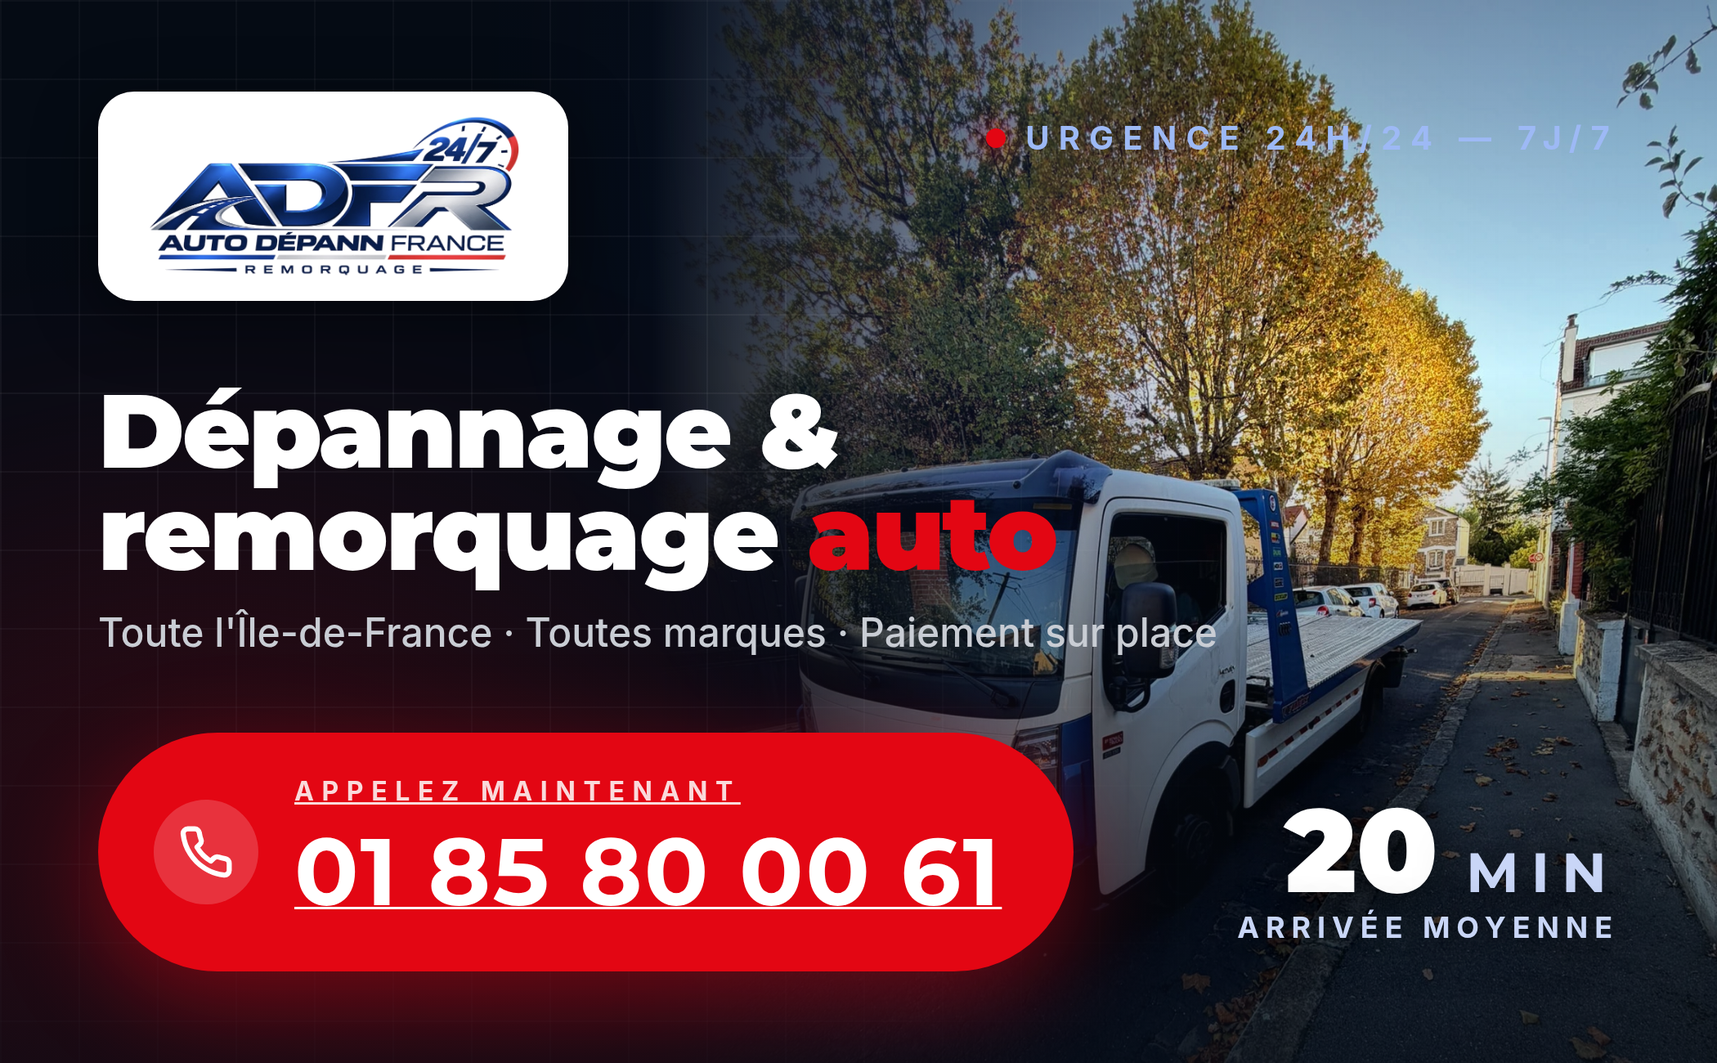
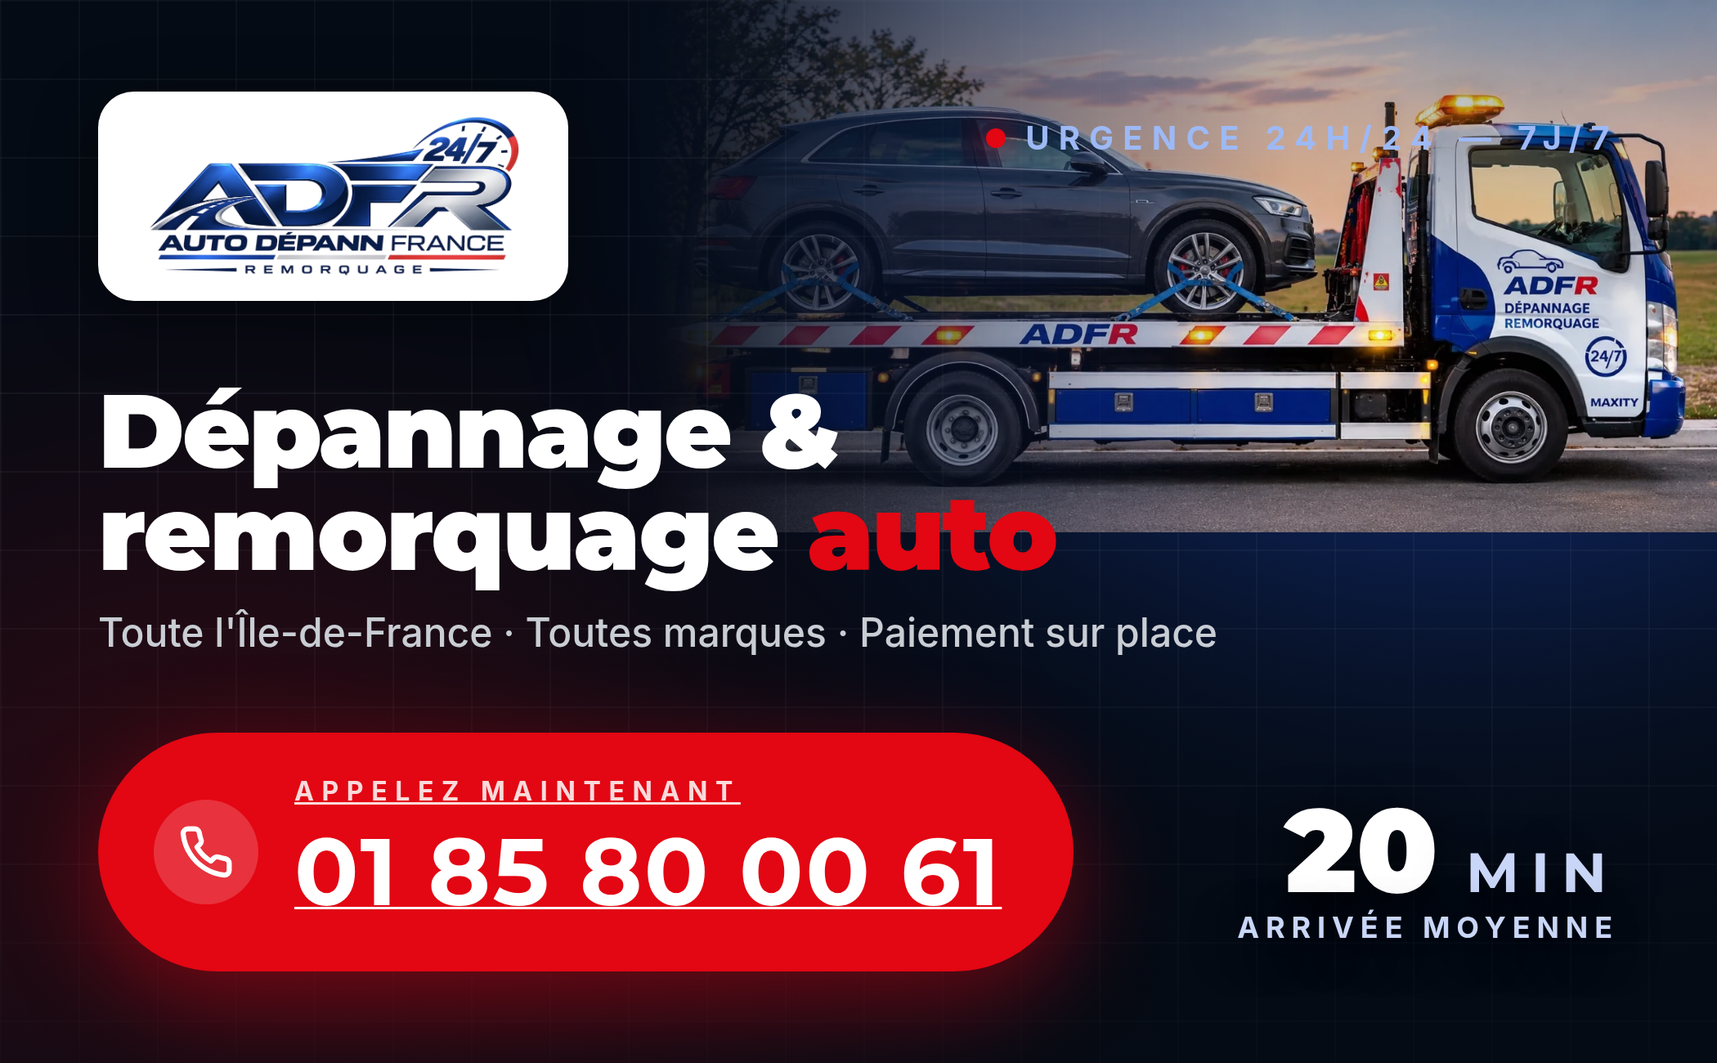
Fait, les deux points sont visibles dans les captures ci-dessus :
**1. Carte « Crevaison »** : ta nouvelle photo (BMW crevée sur le plateau ADFR) est intégrée, convertie en WebP (180 Ko), coins arrondis + ombre, chargement différé, alt « Remorquage d'une voiture crevée sur dépanneuse plateau ADFR ».

**2. Photo du hero sur mobile** : recadrée à droite → la cabine complète avec le logo ADFR, « Dépannage Remorquage », le 24/7 et le « MAXITY » sont visibles, le titre vient juste en dessous. Sur ordinateur, rien ne change (pleine largeur, dégradé sombre à gauche).

## Récapitulatif des photos en place (ADFR)
| Photo | Emplacement |
|---|---|
| Dépanneuse vue de côté, coucher de soleil | Hero pleine largeur (ordinateur + mobile) |
| Technicien avec booster | Carte **Batterie** |
| Gilet jaune qui charge une voiture | Carte **Remorquage** |
| BMW crevée sur le plateau | Carte **Crevaison** |
| Dépanneuse blanche sous la pluie (plaque floutée) | Galerie « Sur le terrain » (2 colonnes mobile / 3 ordinateur) |

Note : la **photo 3** (plateau incliné au coucher du soleil) ne m'est jamais parvenue — seulement 4 images dans ton envoi. Si tu la renvoies, je l'ajoute en petit format dans la galerie.

Rien n'est publié. Dis-moi « déploie » quand tu veux mettre tout le lot en ligne (photos, délai 30 min, FAQ, mentions légales, services 01-05, autoroute, fourrière).

Emergent-Commit-Key: 2f750aaf5125001fbb64a3e431b4ad54ce0c396e0cd9a2d380663dfb74d9d59a

diff --git a/frontend/src/components/Hero.tsx b/frontend/src/components/Hero.tsx
@@ -1,4 +1,4 @@
-import { useRef, type MouseEvent } from "react";
+import { useRef } from "react";
 import { motion, useScroll, useTransform, useSpring, useMotionValue } from "framer-motion";
 import { ShieldCheck, BadgeCheck, Clock3 } from "lucide-react";
 import { SITE } from "@/data/site";
@@ -10,32 +10,34 @@ const LINES = BRAND.heroLines;
 
 export default function Hero() {
     const ref = useRef<HTMLElement>(null);
-    const frameRef = useRef<HTMLDivElement>(null);
     const { scrollYProgress } = useScroll({ target: ref, offset: ["start start", "end start"] });
     const yImg = useTransform(scrollYProgress, [0, 1], [0, 70]);
 
-    const mx = useMotionValue(0);
-    const my = useMotionValue(0);
-    const rX = useSpring(useTransform(my, [-0.5, 0.5], [7, -7]), { stiffness: 140, damping: 18 });
-    const rY = useSpring(useTransform(mx, [-0.5, 0.5], [-9, 9]), { stiffness: 140, damping: 18 });
 
-    const onMove = (e: MouseEvent) => {
-        const r = frameRef.current?.getBoundingClientRect();
-        if (!r) return;
-        mx.set((e.clientX - r.left) / r.width - 0.5);
-        my.set((e.clientY - r.top) / r.height - 0.5);
-    };
-    const onLeave = () => {
-        mx.set(0);
-        my.set(0);
-    };
 
     return (
         <section ref={ref} className="relative overflow-hidden">
-            <div className="pointer-events-none absolute -top-40 right-[-10%] size-[600px] rounded-full bg-adfr-electric/20 blur-[140px]" />
-            <div className="pointer-events-none absolute bottom-[-20%] left-[-10%] size-[500px] rounded-full bg-adfr-red/10 blur-[140px]" />
+            {/* Photo pleine largeur : cabine + logo à droite ; recadrage mobile sur la cabine (object-position 82 %) */}
+            <motion.div style={{ y: yImg }} className="absolute inset-x-0 top-0 h-[46svh] min-h-[300px] lg:inset-0 lg:h-auto" data-testid="hero-photo-frame" aria-hidden="true">
+                <img
+                    src={SITE.truck}
+                    srcSet={BRAND.truckSrcSet}
+                    sizes="100vw"
+                    alt=""
+                    className="h-full w-full object-cover object-right lg:object-center scale-[1.04]"
+                    fetchPriority="high"
+                    decoding="async"
+                />
+                {/* Dégradé sombre à gauche pour la lisibilité du titre et du bouton d'appel */}
+                {/* Mobile : photo en bandeau haut (cabine + logo cadrés), fondu vers le fond sous le titre */}
+                <div className="absolute inset-0 bg-gradient-to-b from-adfr-night/35 via-adfr-night/10 to-adfr-night lg:hidden" />
+                {/* Desktop : dégradé sombre à gauche pour la lisibilité du titre et du bouton d'appel */}
+                <div className="absolute inset-0 hidden lg:block bg-gradient-to-r from-adfr-night via-adfr-night/70 to-transparent" />
+                <div className="absolute inset-0 hidden lg:block bg-gradient-to-t from-adfr-night via-transparent to-adfr-night/40" />
+            </motion.div>
+            <img src={SITE.truck} alt="Dépanneuse ADFR dépannage remorquage Paris" className="sr-only" width="1600" height="800" loading="eager" />
 
-            <div className="relative mx-auto max-w-7xl px-4 md:px-8 pt-10 md:pt-16 pb-16 md:pb-24 grid lg:grid-cols-[1.05fr_0.95fr] gap-12 lg:gap-16 items-center min-h-[calc(100svh-64px)] md:min-h-[calc(100svh-80px)]">
+            <div className="relative mx-auto max-w-7xl px-4 md:px-8 pt-[34svh] lg:pt-16 pb-16 md:pb-24 grid lg:grid-cols-[1.05fr_0.95fr] gap-12 lg:gap-16 items-center min-h-[calc(100svh-64px)] md:min-h-[calc(100svh-80px)]">
                 <div>
                     <motion.div
                         initial={{ opacity: 0, y: 12, filter: "blur(6px)" }}
@@ -130,33 +132,14 @@ export default function Hero() {
                     </motion.ul>
                 </div>
 
-                <motion.div style={{ y: yImg }} initial={{ opacity: 0, scale: 0.96 }} animate={{ opacity: 1, scale: 1 }} transition={{ duration: 0.9, ease: EASE, delay: 0.3 }} className="relative">
-                    <div className="absolute -inset-8 bg-[radial-gradient(circle_at_60%_40%,rgba(var(--c-electric-c),0.25),transparent_65%)]" />
-                    <motion.div
-                        ref={frameRef}
-                        onMouseMove={onMove}
-                        onMouseLeave={onLeave}
-                        style={{ rotateX: rX, rotateY: rY, transformPerspective: 900 }}
-                        data-testid="hero-photo-frame"
-                        className="relative overflow-hidden rounded-[2rem] border border-adfr-chrome/25 shadow-[0_40px_80px_-20px_rgba(0,0,0,0.8)]"
-                    >
-                        <img
-                            src={SITE.truck}
-                            srcSet={BRAND.truckSrcSet}
-                            sizes="(max-width: 1024px) 100vw, 45vw"
-                            alt={`La dépanneuse ${SITE.name} en intervention dans les rues d'Île-de-France`}
-                            className="h-[420px] md:h-[540px] w-full object-cover"
-                            fetchPriority="high"
-                        />
-                        <div className="absolute inset-0 bg-gradient-to-t from-adfr-night/85 via-transparent to-adfr-night/20" />
-                        <div className="absolute top-4 left-4 rounded-full bg-adfr-red px-4 py-2 font-display text-xs font-black uppercase tracking-widest text-white shadow-lg" data-testid="hero-badge-247">
-                            24/7 — 7j/7
-                        </div>
-                        <div className="absolute bottom-4 right-4 rounded-2xl border border-adfr-chrome/30 bg-adfr-night/70 px-4 py-3 text-right backdrop-blur-md" data-testid="hero-badge-delay">
-                            <p className="font-display text-2xl font-black text-chrome leading-none">{BRAND.id === "adfr" ? "< 30 min" : "≈ 20 min"}</p>
-                            <p className="mt-1 text-[10px] uppercase tracking-widest text-slate-400">Délai moyen IDF</p>
-                        </div>
-                    </motion.div>
+                <motion.div initial={{ opacity: 0, y: 16 }} animate={{ opacity: 1, y: 0 }} transition={{ duration: 0.8, ease: EASE, delay: 0.6 }} className="relative hidden lg:flex h-[540px] items-end justify-end gap-4">
+                    <div className="rounded-full bg-adfr-red px-4 py-2 font-display text-xs font-black uppercase tracking-widest text-white shadow-lg" data-testid="hero-badge-247">
+                        24/7 — 7j/7
+                    </div>
+                    <div className="rounded-2xl border border-adfr-chrome/30 bg-adfr-night/70 px-4 py-3 text-right backdrop-blur-md" data-testid="hero-badge-delay">
+                        <p className="font-display text-2xl font-black text-chrome leading-none">{BRAND.id === "adfr" ? "< 30 min" : "≈ 20 min"}</p>
+                        <p className="mt-1 text-[10px] uppercase tracking-widest text-slate-400">Délai moyen IDF</p>
+                    </div>
                 </motion.div>
             </div>
         </section>

diff --git a/frontend/src/components/Gallery.tsx b/frontend/src/components/Gallery.tsx
@@ -7,17 +7,18 @@ import { track, gtagConversion } from "@/lib/api";
 const PHOTOS = [
     {
         src: "/img/flotte-plateau.webp",
-        alt: "La dépanneuse plateau prête à partir en intervention dans une rue d'Île-de-France",
+        alt: "La dépanneuse plateau prête à partir pour une intervention en Île-de-France",
         caption: "Plateau prêt à partir",
-        span: "md:col-span-7 md:row-span-2",
-        frame: "h-56 md:h-full",
     },
     {
         src: "/img/flotte-van.webp",
-        alt: "Un combi Volkswagen chargé et arrimé sur le plateau de la dépanneuse",
-        caption: "Arrimage sécurisé",
-        span: "md:col-span-5 md:row-span-2",
-        frame: "h-96 md:h-full",
+        alt: "Combi Volkswagen arrimé sur le plateau de la dépanneuse",
+        caption: "Véhicule arrimé, départ vers le garage",
+    },
+    {
+        src: "/img/intervention-pluie.webp",
+        alt: "Intervention de dépannage sous la pluie en Île-de-France",
+        caption: "Intervention sous la pluie",
     },
 ];
 
@@ -43,7 +44,7 @@ export default function Gallery() {
                     whileInView="show"
                     viewport={{ once: true, amount: 0.1 }}
                     variants={{ show: { transition: { staggerChildren: 0.09 } } }}
-                    className="grid grid-cols-1 md:grid-cols-12 md:auto-rows-[272px] gap-4"
+                    className="grid grid-cols-2 md:grid-cols-3 gap-3 md:gap-4"
                     data-testid="gallery"
                 >
                     {PHOTOS.map((p) => (
@@ -51,9 +52,9 @@ export default function Gallery() {
                             key={p.src}
                             variants={{ hidden: { opacity: 0, y: 26 }, show: { opacity: 1, y: 0, transition: { duration: 0.6, ease: EASE } } }}
                             data-testid={`gallery-photo-${p.caption.toLowerCase().replace(/[^a-z]+/g, "-")}`}
-                            className={`group relative overflow-hidden rounded-2xl border border-adfr-chrome/15 ${p.span} ${p.frame}`}
+                            className="group relative overflow-hidden rounded-2xl border border-adfr-chrome/15 shadow-[0_18px_40px_-18px_rgba(0,0,0,0.8)] h-44 sm:h-56 md:h-72 last-of-type:col-span-2 md:last-of-type:col-span-1"
                         >
-                            <img src={p.src} alt={p.alt} loading="lazy" className="h-full w-full object-cover transition-transform duration-500 group-hover:scale-105" />
+                            <img src={p.src} alt={p.alt} loading="lazy" decoding="async" className="h-full w-full object-cover transition-transform duration-500 group-hover:scale-105" />
                             <div className="absolute inset-0 bg-gradient-to-t from-adfr-night/60 via-transparent to-transparent" />
                             <figcaption className="absolute bottom-3 left-3 rounded-full bg-adfr-night/70 px-3.5 py-1.5 text-xs font-bold text-white backdrop-blur-md">
                                 {p.caption}
@@ -63,7 +64,7 @@ export default function Gallery() {
 
                     <motion.div
                         variants={{ hidden: { opacity: 0, y: 26 }, show: { opacity: 1, y: 0, transition: { duration: 0.6, ease: EASE } } }}
-                        className="md:col-span-12 h-56 md:h-auto md:py-8 rounded-2xl border border-adfr-red/40 bg-gradient-to-br from-adfr-deep2 to-adfr-deep px-6 md:px-10 flex flex-col md:flex-row md:items-center md:justify-between gap-4"
+                        className="col-span-2 md:col-span-3 h-56 md:h-auto md:py-8 rounded-2xl border border-adfr-red/40 bg-gradient-to-br from-adfr-deep2 to-adfr-deep px-6 md:px-10 flex flex-col md:flex-row md:items-center md:justify-between gap-4"
                         data-testid="gallery-cta"
                     >
                         <div>

diff --git a/frontend/src/data/site.ts b/frontend/src/data/site.ts
@@ -25,6 +25,7 @@ export interface ServiceItem {
     icon: LucideIcon;
     title: string;
     desc: string;
+    image?: { src: string; alt: string };
 }
 
 const SERVICES_ALL: ServiceItem[] = [
@@ -32,6 +33,7 @@ const SERVICES_ALL: ServiceItem[] = [
         icon: Truck,
         title: "Remorquage",
         desc: "Votre véhicule est immobilisé ? Nous le remorquons vers le garage de votre choix, partout en Île-de-France, de jour comme de nuit.",
+        image: BRAND.id === "adfr" ? { src: "/img/service-remorquage.webp", alt: "Chargement d'un véhicule sur plateau ADFR" } : undefined,
     },
     {
         icon: Wrench,
@@ -42,11 +44,13 @@ const SERVICES_ALL: ServiceItem[] = [
         icon: BatteryCharging,
         title: "Batterie",
         desc: "Batterie à plat ? Démarrage avec booster, test de charge et remplacement si besoin, directement chez vous.",
+        image: BRAND.id === "adfr" ? { src: "/img/service-batterie.webp", alt: "Dépannage batterie voiture sur place ADFR" } : undefined,
     },
     {
         icon: CircleDot,
         title: "Crevaison",
         desc: "Roue de secours posée sur place ou remorquage rapide vers le pneumaticien le plus proche.",
+        image: BRAND.id === "adfr" ? { src: "/img/service-crevaison.webp", alt: "Remorquage d'une voiture crevée sur dépanneuse plateau ADFR" } : undefined,
     },
     {
         icon: Fuel,
@@ -65,8 +69,8 @@ const SERVICES_ALL: ServiceItem[] = [
     },
 ];
 
-/** ADFR ne propose plus la sortie de fourrière ; la carte reste sur SOS Dépannage. */
-export const SERVICES: ServiceItem[] = BRAND.id === "adfr" ? SERVICES_ALL.filter((s) => s.title !== "Sortie de fourrière") : SERVICES_ALL;
+/** ADFR : 5 services (sans sortie de fourrière ni véhicule accidenté) ; SOS Dépannage garde les 7. */
+export const SERVICES: ServiceItem[] = BRAND.id === "adfr" ? SERVICES_ALL.filter((s) => s.title !== "Sortie de fourrière" && s.title !== "Véhicule accidenté") : SERVICES_ALL;
 
 export interface Review {
     name: string;

diff --git a/frontend/src/components/Services.tsx b/frontend/src/components/Services.tsx
@@ -51,6 +51,16 @@ export default function Services({ eyebrow = "Nos services", title = "Du dépann
                                 </span>
                                 <span className="font-display font-black text-4xl text-adfr-chrome/15 select-none">{String(i + 1).padStart(2, "0")}</span>
                             </div>
+                            {s.image && (
+                                <img
+                                    src={s.image.src}
+                                    alt={s.image.alt}
+                                    loading="lazy"
+                                    decoding="async"
+                                    className="mt-5 h-44 md:h-52 w-full rounded-xl object-cover shadow-[0_18px_40px_-18px_rgba(0,0,0,0.8)] border border-adfr-chrome/15"
+                                    data-testid={`service-image-${s.title.toLowerCase().replace(/[^a-z]+/g, "-")}`}
+                                />
+                            )}
                             <h3 className="mt-5 font-display text-lg font-bold text-white">{s.title}</h3>
                             <p className="mt-2 text-sm leading-relaxed text-slate-400">{s.desc}</p>
                             <a

diff --git a/frontend/public/index.html b/frontend/public/index.html
@@ -14,8 +14,8 @@
         <link rel="preconnect" href="https://fonts.googleapis.com" />
         <link rel="preconnect" href="https://fonts.gstatic.com" crossorigin />
         <link href="https://fonts.googleapis.com/css2?family=Montserrat:wght@700;800;900&family=Inter:wght@400;500;600;700&family=Barlow+Condensed:wght@700;800;900&family=Barlow:wght@400;500;600;700&display=swap" rel="stylesheet" />
-        <link rel="preload" as="image" href="/img/depanneuse-800.webp" media="(max-width: 640px)" fetchpriority="high" />
-        <link rel="preload" as="image" href="/img/depanneuse.webp" media="(min-width: 641px)" fetchpriority="high" />
+        <link rel="preload" as="image" href="/img/hero-adfr-800.webp" media="(max-width: 640px)" fetchpriority="high" />
+        <link rel="preload" as="image" href="/img/hero-adfr.webp" media="(min-width: 641px)" fetchpriority="high" />
         <!-- Google tag (gtag.js) -->
         <script async src="https://www.googletagmanager.com/gtag/js?id=AW-18543287149"></script>
         <script>

diff --git a/frontend/src/data/brand.ts b/frontend/src/data/brand.ts
@@ -47,8 +47,8 @@ const ADFR: Brand = {
     logo: "/img/logo-adfr.png",
     favicon: "/img/favicon-247.png",
     ogImage: "/img/og-cover.jpg",
-    truck: "/img/depanneuse.webp",
-    truckSrcSet: "/img/depanneuse-800.webp 800w, /img/depanneuse.webp 1600w",
+    truck: "/img/hero-adfr.webp",
+    truckSrcSet: "/img/hero-adfr-800.webp 800w, /img/hero-adfr.webp 1600w",
     heroLines: ["Une panne ?", "On arrive", "en moins de 30 minutes."],
     heroText: "Intervention en moins de 30 minutes partout en Île-de-France. Dépannage sur place ou remorquage toutes marques, de jour comme de nuit, week-ends et jours fériés.",
     delay: { long: "en moins de 30 minutes", short: "moins de 30 min" },

diff --git a/frontend/public/carte-visite.html b/frontend/public/carte-visite.html
@@ -99,7 +99,7 @@
   const T = {
     adfr: {
       recto: `<div class="card adfr"><div class="glow g1"></div><div class="glow g2"></div><div class="grid"></div>
-        <img class="photo" src="/img/depanneuse.webp" alt="Dépanneuse ADFR"><div class="shade"></div>
+        <img class="photo" src="/img/hero-adfr.webp" alt="Dépanneuse ADFR"><div class="shade"></div>
         <div class="logo"><img src="/img/logo-adfr.png" alt="ADFR"></div>
         <div class="eyebrow"><i></i>Urgence 24h/24 — 7j/7</div>
         <h1 class="display">Dépannage &amp;<br>remorquage <span>auto</span></h1>

diff --git a/frontend/src/components/Footer.tsx b/frontend/src/components/Footer.tsx
@@ -100,7 +100,7 @@ export default function Footer() {
                 <p>
                     © {year} {BRAND.legalLine}
                 </p>
-                <p>Dépannage · Remorquage · Batterie · Crevaison · Carburant{BRAND.id === "sos" ? " · Fourrière" : " · Accident"}</p>
+                <p>Dépannage · Remorquage · Batterie · Crevaison · Carburant{BRAND.id === "sos" ? " · Fourrière" : ""}</p>
             </div>
         </footer>
     );

diff --git a/deployer-agent-docs/RCA_6c3f9ad3-5566-4533-a40d-cb125c965fd8.MD b/deployer-agent-docs/RCA_6c3f9ad3-5566-4533-a40d-cb125c965fd8.MD
@@ -1,0 +1,31 @@
+# RCA — Redeploy failed at build_image (Cloud Build queue timeout)
+
+## Deployment
+- Deployment: depann-24h (3ff62736-bad0-4eba-b057-247e91943438)
+- Template: fastapi_react_mongo_shadcn_base_image, arch arm64, tier_0, frontend cloudflare
+- Live URL (unchanged, still serving previous good version): https://depann-24h.emergent.host
+
+## Symptom
+Redeploy fails at the `build_image` step. Two separate run attempts both failed identically:
+- run fe49db58-aa6d-4e82-986e-91ec726ca8e7 (original trigger)
+- run 6c3f9ad3-5566-4533-a40d-cb125c965fd8 (my force_repull retry)
+
+Both ended with:
+`build ... ended in FAILED (last phase context: QUEUED/Build has timed out in the queued phase)` (TerminalCloudBuildFailure).
+
+## Root Cause
+Cloud Build never left the **QUEUED** phase — the build was waiting for a build worker and timed out before any build step ran. Evidence:
+- The failure phase context is literally `QUEUED/Build has timed out in the queued phase`.
+- `get_build_logs` returned `build_logs_unavailable` — no build output exists because no build step ever executed.
+- The 4 most recent prior runs on this exact template/arch/tier all built successfully, so the Dockerfile/manifests and source compile fine.
+
+This is a **platform-side Cloud Build capacity / scheduling issue** (the build pool, likely the arm64 builder capacity in the region, did not pick up the job within the queue timeout). It is NOT a source, dependency, or manifest fault.
+
+## What I tried
+- Oriented with describe_deployment_state (confirmed prior runs green on same template).
+- Attempted to read build logs — none available (build never ran).
+- Re-fired the pipeline with resume_pipeline(force_repull=true) — same queued-phase timeout.
+
+## Fix / Next steps
+- No manifest or code change is applicable; a build that never leaves the queue cannot be fixed by editing files.
+- This needs the Emergent platform team to check Cloud Build builder-pool capacity / queue health for arm64 in the target region. Once builder capacity is restored, a plain redeploy should succeed unchanged.

diff --git a/memory/PRD.md b/memory/PRD.md
@@ -241,3 +241,9 @@ Brief client en 10 points, execute et verifie (testing agent iteration_6: 100%):
 
 ## Modif 2026-11-06 (24) - ADFR : plus de "Sortie de fourriere" - NON DEPLOYE
 - site.ts : SERVICES = SERVICES_ALL filtre pour ADFR (6 cartes, numerotation auto 01-06) ; SOS garde les 7. CallbackForm PANNE_TYPES sans fourriere ; backend PANNE_TYPES sans fourriere (plus accepte). Footer : "... Carburant · Accident" pour ADFR (SOS : "· Fourriere"). llms.txt : ligne retiree. Aucune mention dans zones/zoneContent/FAQ/Seo (verifie grep + rendu home, /depannage-93, villemomble, paris-12).
+
+## Photos ADFR 2026-11-08 (25) - NON DEPLOYE (client valide le rendu avant)
+- 5 photos client en WebP < 300 Ko dans public/img : hero-adfr.webp (1600) + hero-adfr-800.webp (photo 2, cote, coucher de soleil), service-batterie.webp (photo 1 booster), service-remorquage.webp (photo 5 gilet jaune), intervention-pluie.webp (photo 4, plaque floutee PIL GaussianBlur), service-crevaison.webp (nouvelle photo BMW crevee). Photo 3 (plateau incline) jamais recue.
+- Hero.tsx ADFR : photo pleine largeur en fond (fetchpriority high, srcset), desktop = degrade sombre a gauche + badges 24/7 et <30 min en bas a droite ; mobile = bandeau photo haut 46svh object-right (cabine + logo visibles), titre en dessous (pt-34svh). Tilt 3D retire. index.html preload -> hero-adfr. Anciennes depanneuse.webp/-800 supprimees ; carte-visite.html utilise hero-adfr.webp (cartes re-exportees).
+- Services : ServiceItem.image optionnel (ADFR seulement) ; cartes Remorquage, Batterie, Crevaison avec photo (loading lazy, rounded-xl, ombre). ADFR = 5 services (retrait "Vehicule accidente" et fourriere) ; SOS garde 7. Footer ADFR : "... Carburant".
+- Gallery "Sur le terrain" : 3 photos (plateau, combi, pluie), grille 2 col mobile / 3 col desktop, CTA pleine largeur.
